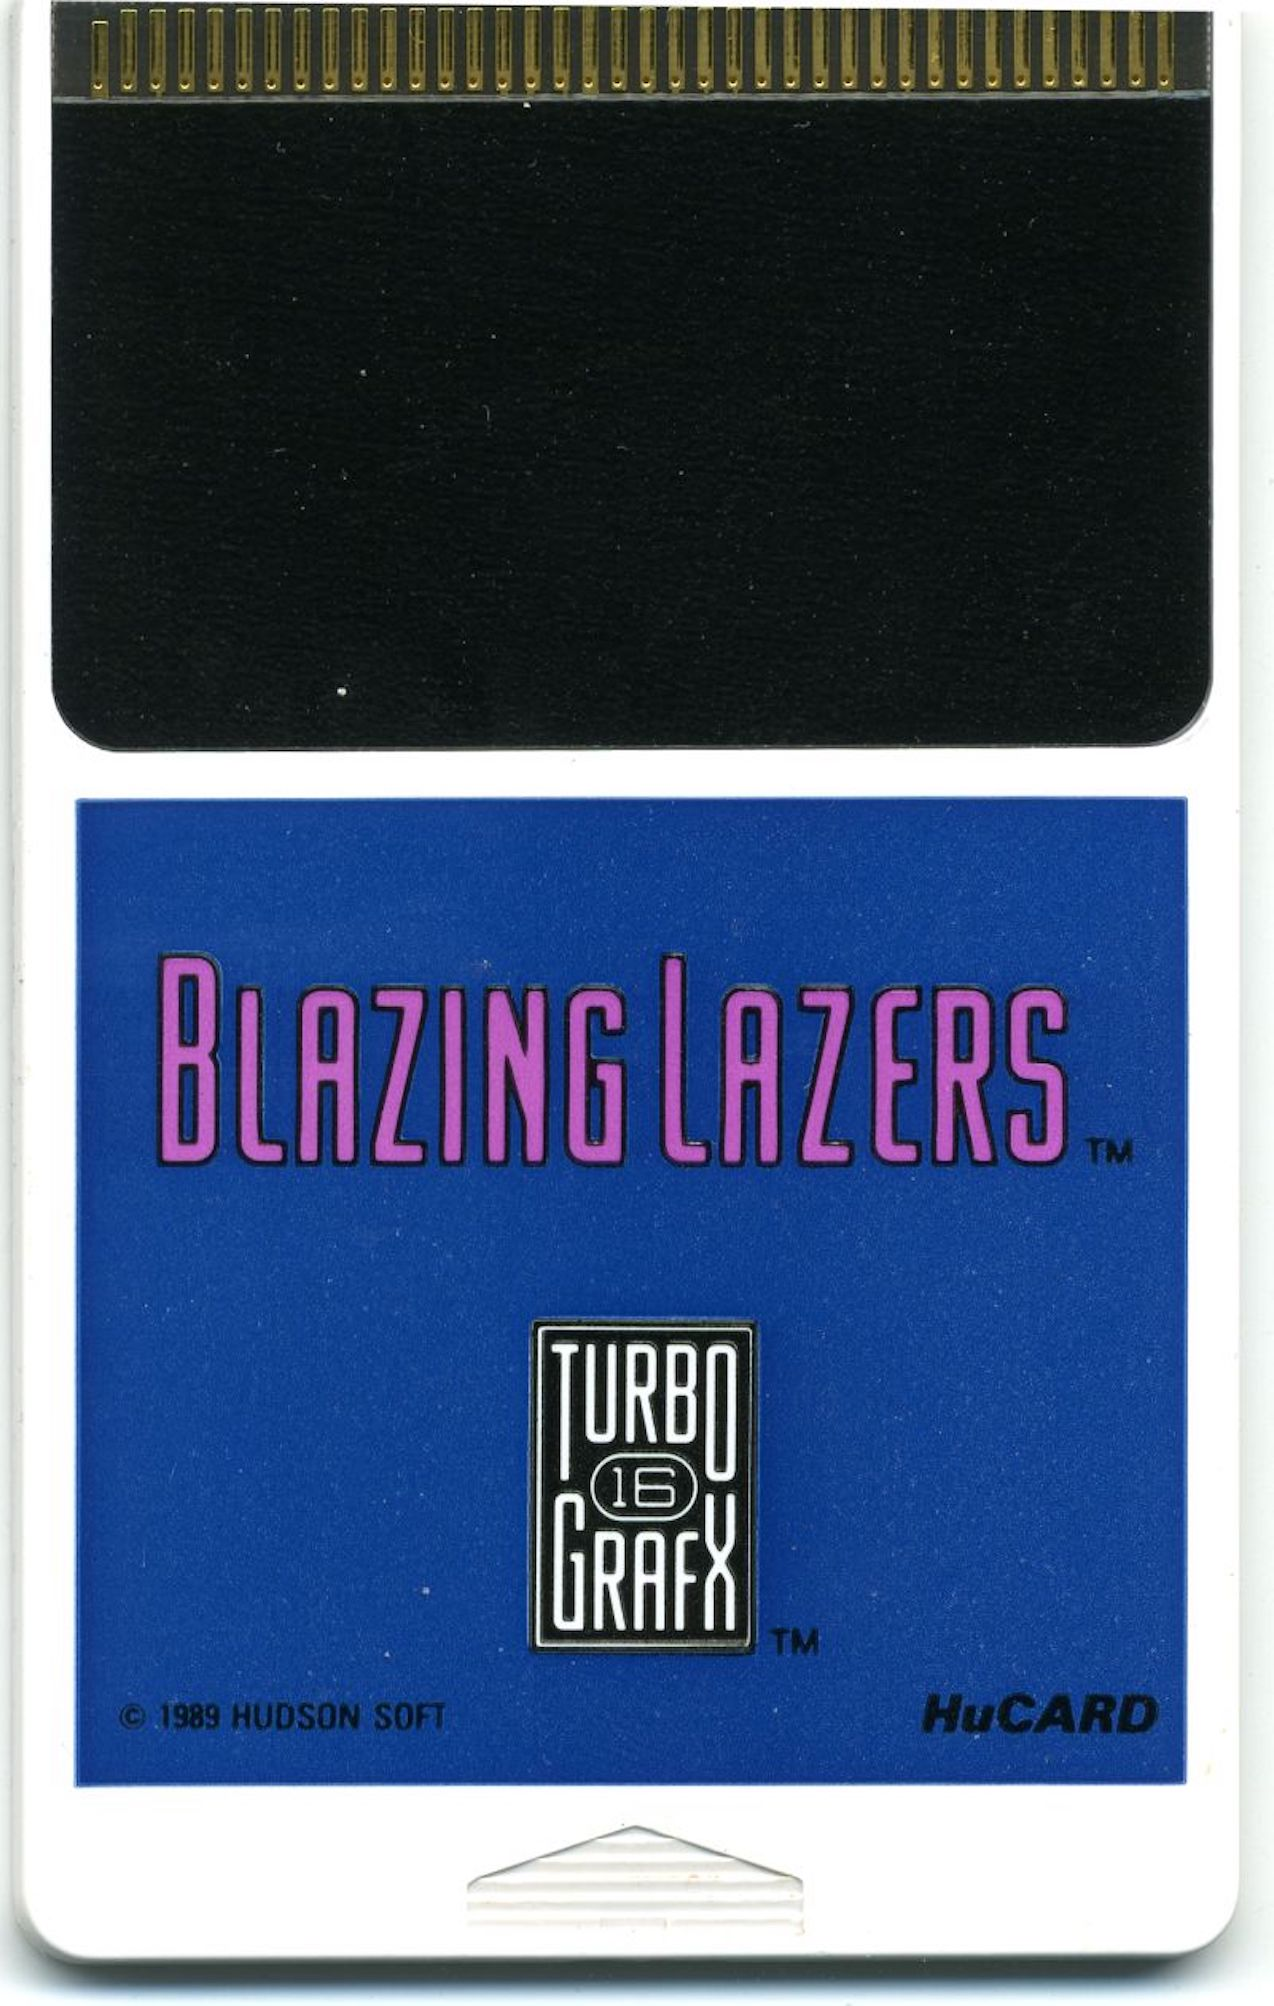
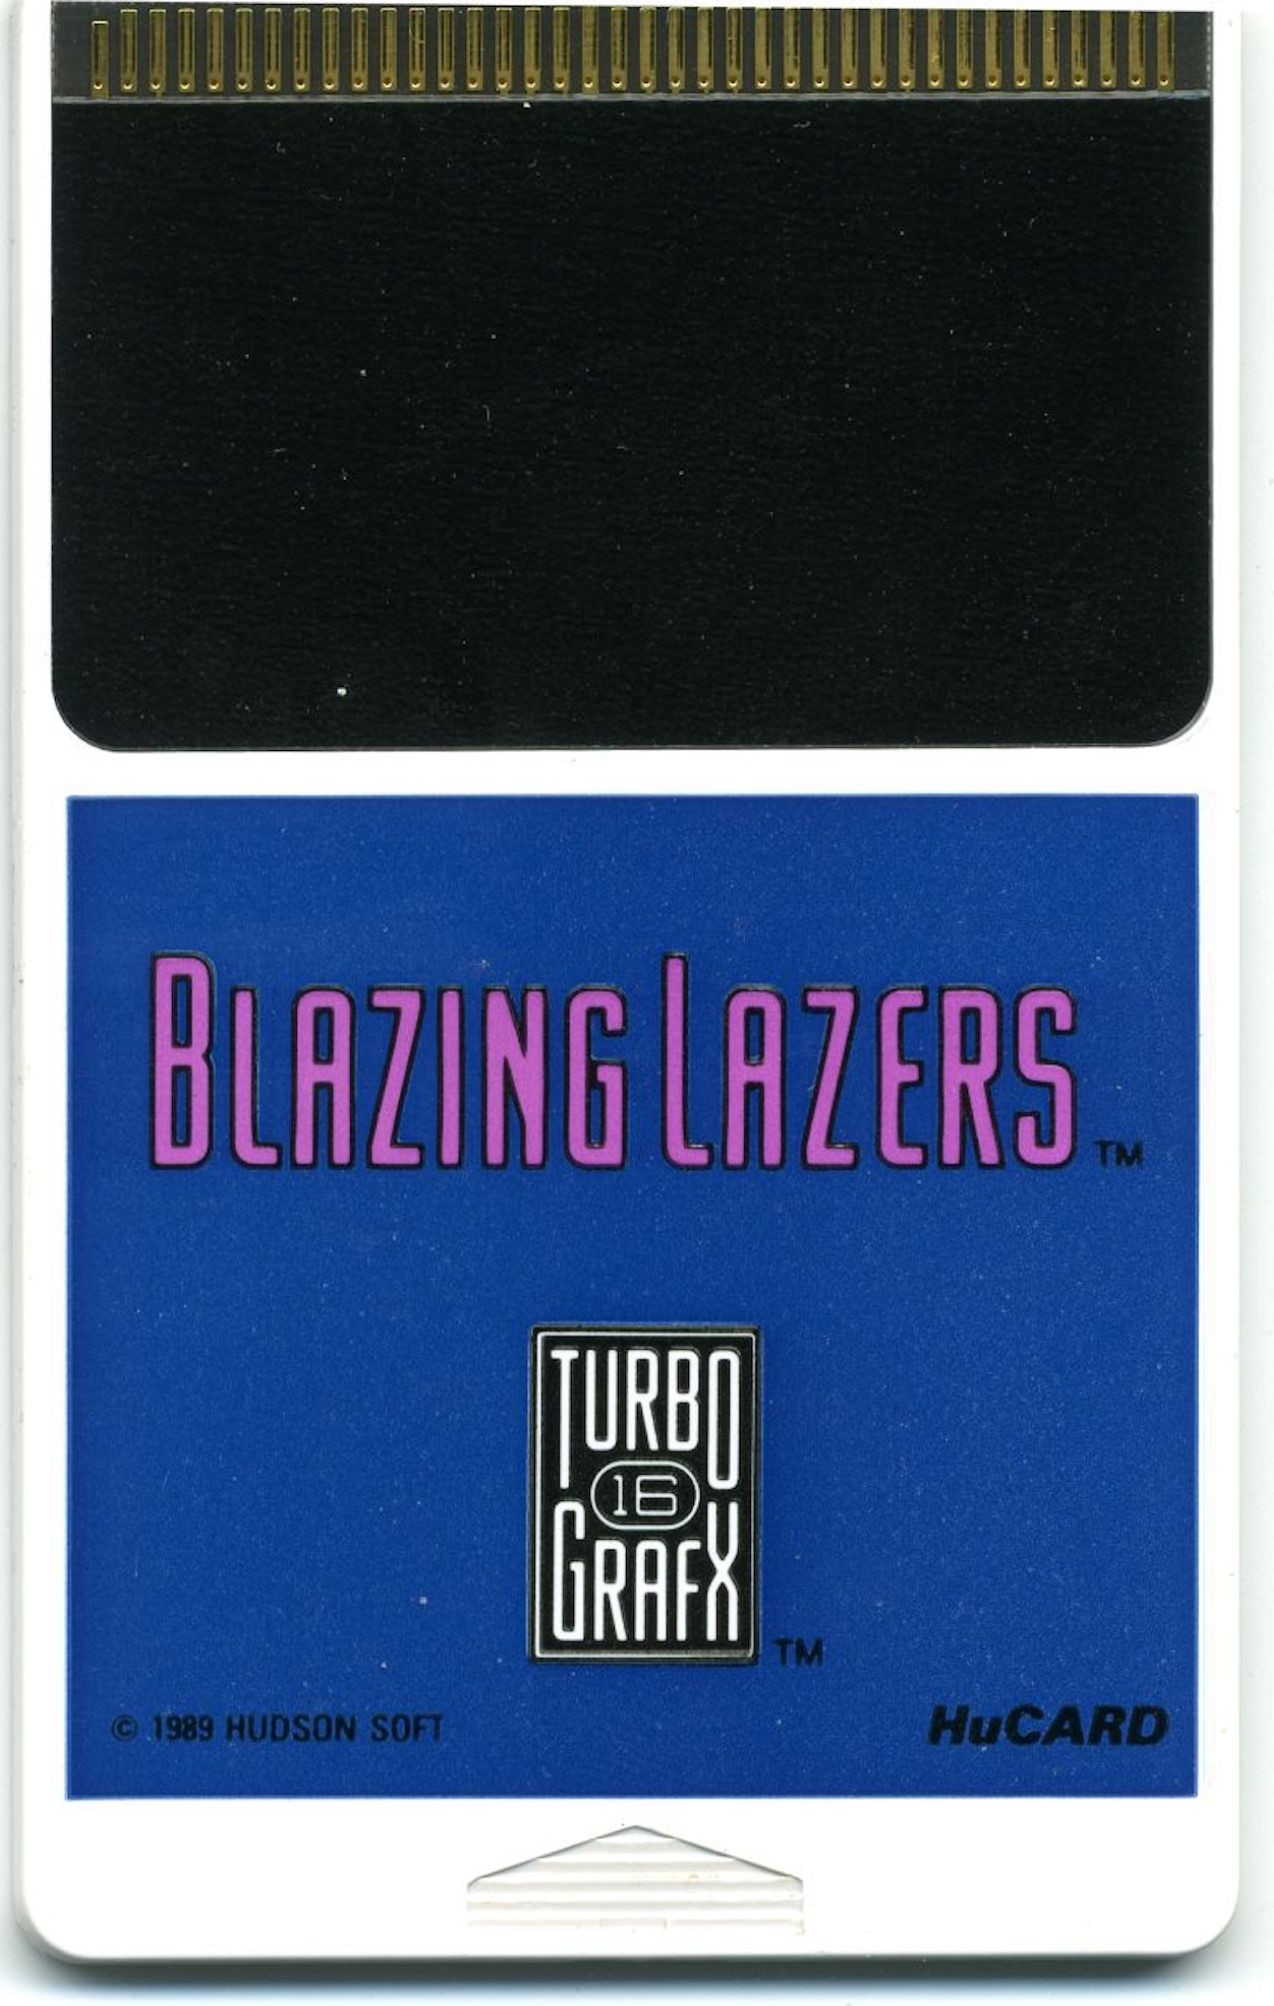
Updated directions and modified art

Changed region(s): [[0.0306, 0.3709, 0.949, 0.8963], [0.398, 0.6491, 0.6429, 0.8345], [0.0918, 0.4636, 0.4286, 0.5872]]

diff --git a/art/hucard/README.MD b/art/hucard/README.MD
@@ -14,3 +14,27 @@ Height 3.4 inches
 
 ## TODO
 Confirm the media art is accurate and that each HuCard is based on the hucard.png base image.
+
+air_zonk_card_us.jpeg - unconfirmed/original
+blazing-lazers-turbografx-16-media.jpeg - confirmed/remastered
+bomberman-93-turbografx-16-media.jpg - unconfirmed/original
+bonk-s-adventure-turbografx-16-media.jpg - unconfirmed/original
+devil-s-crush-turbografx-16-media.jpg  - unconfirmed/original
+disney-s-darkwing-duck-turbografx-16-media.jpeg - unconfirmed/original
+disney-s-talespin-turbografx-16-media.jpg - unconfirmed/original
+dragon-spirit-turbografx-16-media.jpg - unconfirmed/original
+dungeon-explorer-turbografx-16-media.jpg - unconfirmed/original
+keith-courage-in-alpha-zones-turbografx-16-media.jpg - unconfirmed/original
+legendary-axe-turbografx-16-media.jpg - unconfirmed/original
+military-madness-turbografx-16-media.jpg - unconfirmed/original
+neutopia-ii-turbografx-16-media.jpg - unconfirmed/original
+neutopia-turbografx-16-media.jpg - unconfirmed/original
+new-adventure-island-turbografx-16-media.jpg - unconfirmed/original
+ninja-spirit-turbografx-16-media.jpg - unconfirmed/original
+power-golf-turbografx-16-media.jpg - unconfirmed/original
+r-type-turbografx-16-media.jpg - unconfirmed/original
+splatterhouse-turbografx-16-media.jpg - unconfirmed/original
+super-star-soldier-turbografx-16-media.jpg - unconfirmed/original
+turrican-turbografx-16-media.jpg - unconfirmed/original
+victory-run-turbografx-16-media.jpg - unconfirmed/original
+vigilante-turbografx-16-media.jpg - unconfirmed/original

diff --git a/DIRECTIONS.md b/DIRECTIONS.md
@@ -98,13 +98,15 @@ In this system, the HuCards don't need to be written to, we configure a mapping 
 2. Start typing `ls <system>/<name of game>` (e.g. `ls /pcengine/Bonk*`) to find the rom you want. Hit tab to complete the file, or hit tab twice to show possible matches. Don't forget to backslash things like spaces and parenthesis as you go.
 3. After you finally tab through to the complete file, hit <enter>.
 4. Copy the resulting line and put it and put it next to the UID you want to use in your text file. (`e.g. pcengine/Bonk's Adventure (USA).pce`) Make sure you don't have backslashes here.
-5. Repeat this process
+5. Repeat this process.
 
 ### Write your HuCards in the config
 1. Run `sudo nano /etc/nfc_poll/nfc_poll.conf`
 2. At the bottom of the file, there's a `[hucards]` section.
-3. For each HuCard you want, add a line in this format: `<uid> = <game file>` (e.g. `00000000000000 = pcengine/Bonk's Adventure (USA).pce`)
-4. Run `sudo systemctl restart nfc_poll`
+3. For each HuCard you want, add a line in this format: `<uid> = <game file>` (e.g. `00000000000000 = pcengine/Bonk's Adventure (USA).pce`).  [Like this](https://github.com/vminnocci/turbograpx-16-nfc/blob/master/nfc/etc/nfc_poll.conf)
+
+ 
+Run `sudo systemctl restart nfc_poll`
 5. Try it out! Place one of your HuCards on the reader and the screen should go black for a couple seconds, then bring up your game. Remove it and it should go back to the EmulationStation.
 
 ## Install screen_manager
